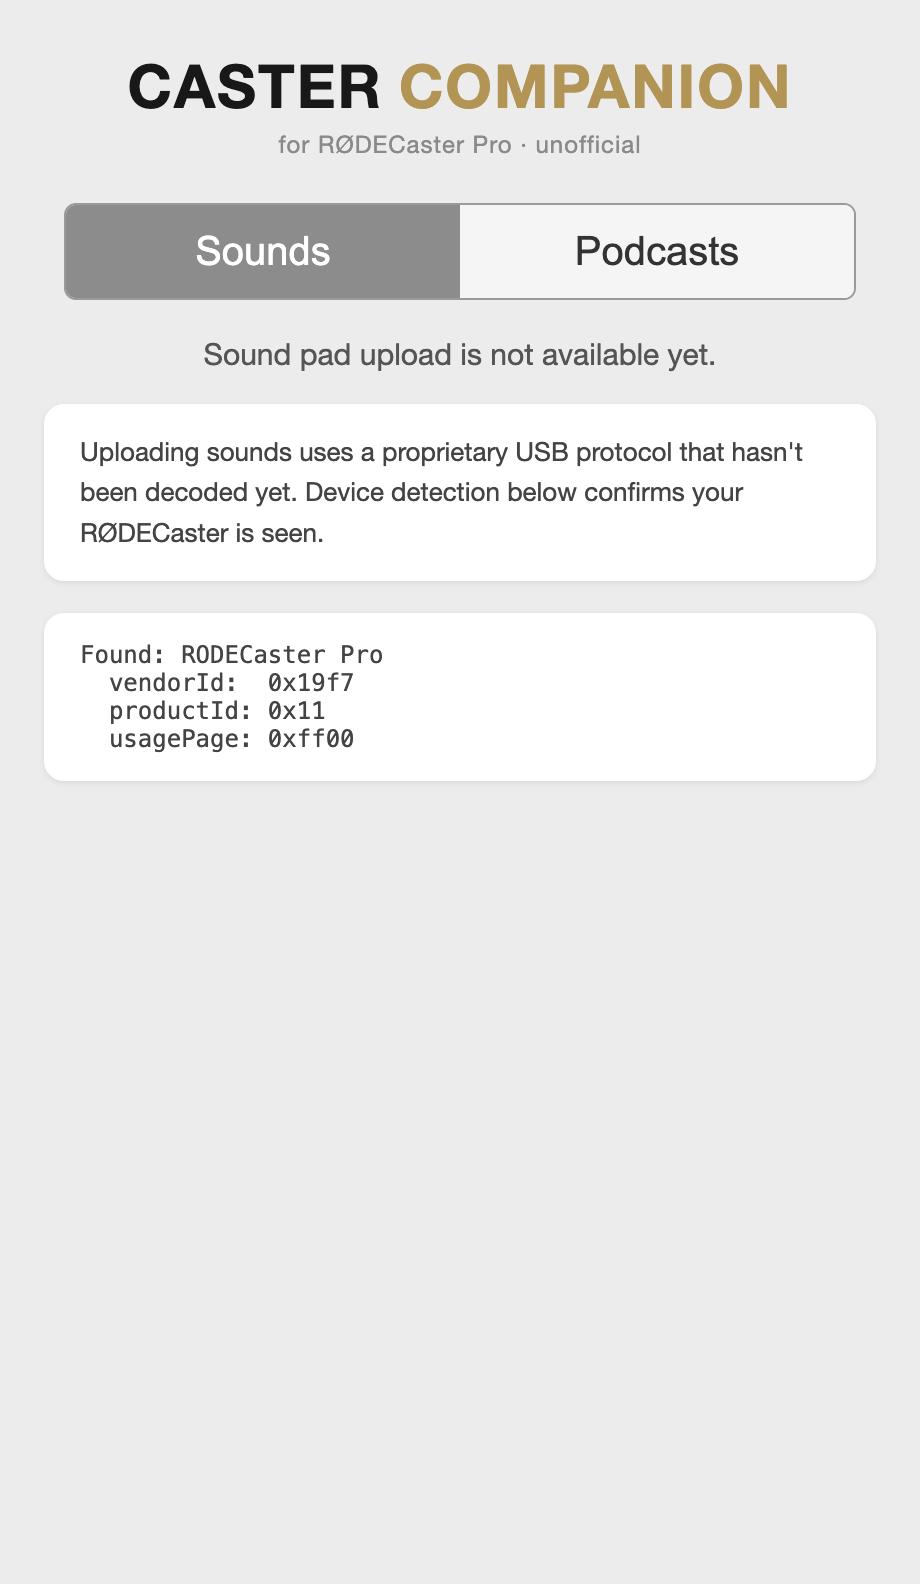
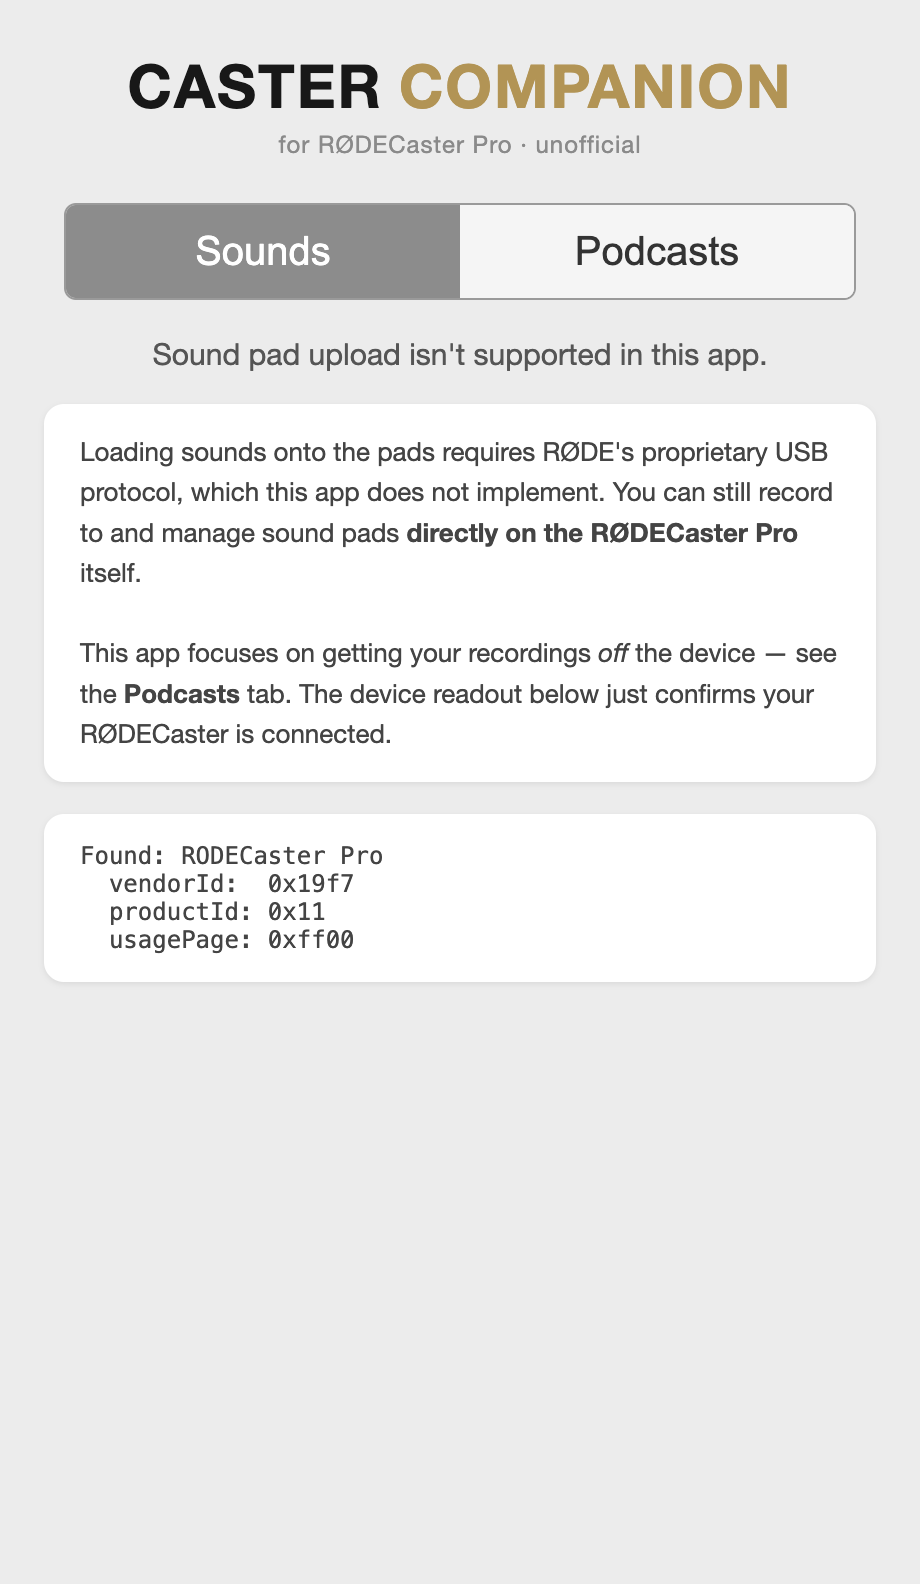
Clarify Sounds tab is unsupported; document HID-blocked features
- Sounds tab now states sound-pad upload isn't supported (not "yet"), explains
  why, and points users to record pads on the device
- Document that the app-side Transfer Mode toggle is the same undecoded-HID
  situation as sound pads, and that on-device toggling replaces it

diff --git a/src/renderer/index.html b/src/renderer/index.html
@@ -47,10 +47,15 @@
   <!-- ============ SOUNDS ============ -->
   <section id="page-sounds" class="page hidden">
     <div class="state">
-      <p class="hint">Sound pad upload is not available yet.</p>
+      <p class="hint">Sound pad upload isn't supported in this app.</p>
       <div class="instructions">
-        Uploading sounds uses a proprietary USB protocol that hasn't been
-        decoded yet. Device detection below confirms your RØDECaster is seen.
+        Loading sounds onto the pads requires RØDE's proprietary USB protocol,
+        which this app does not implement. You can still record to and manage
+        sound pads <strong>directly on the RØDECaster Pro</strong> itself.
+        <br /><br />
+        This app focuses on getting your recordings <em>off</em> the device — see
+        the <strong>Podcasts</strong> tab. The device readout below just confirms
+        your RØDECaster is connected.
       </div>
       <div id="hid-status" class="hid-status">Scanning for RØDE USB devices…</div>
     </div>

diff --git a/docs/SOUND-PADS.md b/docs/SOUND-PADS.md
@@ -1,4 +1,25 @@
-# Sound-pad upload — status & feasibility
+# HID-only features (sound pads, app-side Transfer Mode) — status & feasibility
+
+Two features of the original app depend on RØDE's proprietary USB **HID**
+protocol, and neither is implemented here:
+
+1. **Sound-pad upload** — loading audio onto the pads.
+2. **Toggling Podcast Transfer Mode from the app** — the original had an in-app
+   switch that put the device into/out of transfer mode. That switch sends a
+   vendor HID command to the device, so it sits in exactly the same undecoded
+   bucket as sound-pad upload.
+
+Caster Companion handles (2) differently: you enable Transfer Mode on the
+device's own touchscreen (tap the SD-card icon), which needs no app at all, and
+the Podcasts tab auto-detects the card the moment it mounts. So the app-side
+toggle is a convenience we lose, not lost functionality — the underlying action
+is one tap on the hardware.
+
+The rest of this document focuses on sound-pad upload, but the **same USB
+capture work below would also reveal the Transfer Mode command** (it's likely a
+single short report — easy to spot in a capture).
+
+## Sound-pad upload
 
 **Status: not implemented.** The Sounds tab currently only *detects* the device.
 

diff --git a/README.md b/README.md
@@ -49,10 +49,12 @@ Electron + ffmpeg and runs natively on `arm64`.
     Settings) for a ready-to-publish file.
 
 ### Sounds — device detection only
-Uploading audio to the sound pads uses a proprietary USB HID protocol that has
-not been decoded. This tab detects your connected RØDECaster and shows its USB
-IDs, but cannot upload sounds yet. See [docs/SOUND-PADS.md](docs/SOUND-PADS.md)
-for the full status and the path to building it.
+Two original-app features rely on RØDE's proprietary USB HID protocol and are
+**not** implemented: uploading audio to the sound pads, and toggling Podcast
+Transfer Mode from the app (you do that on the device's touchscreen instead).
+The Sounds tab detects your connected RØDECaster and shows its USB IDs so you
+can confirm it's seen. See [docs/SOUND-PADS.md](docs/SOUND-PADS.md) for the full
+status and a concrete path to decoding the HID protocol.
 
 ## Safety
 